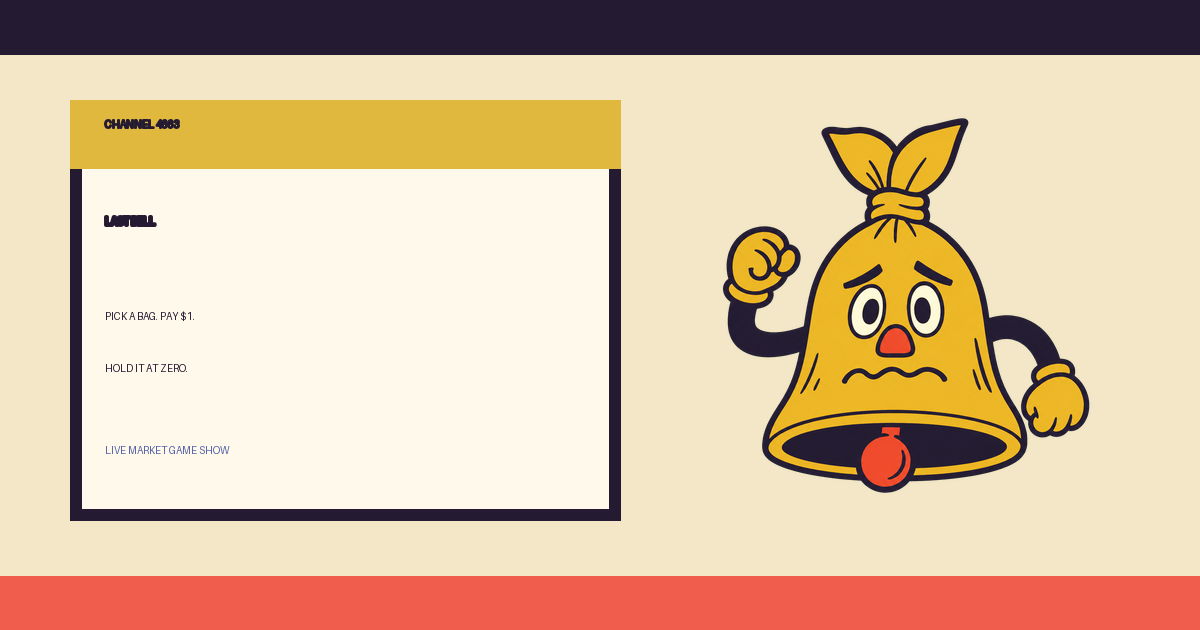
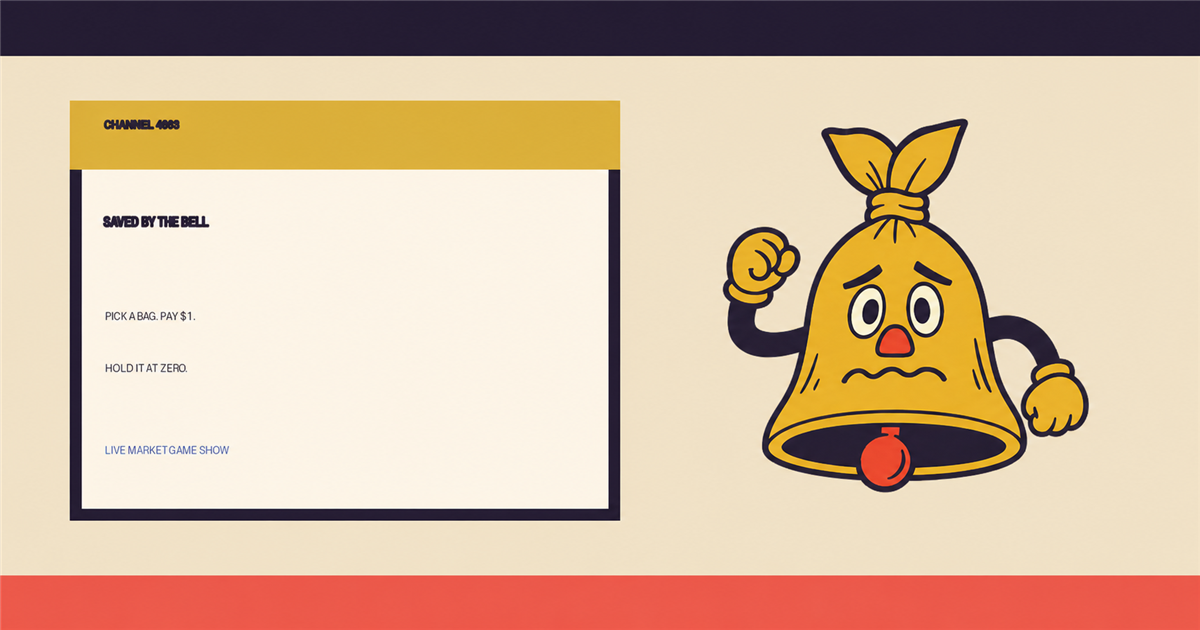
feat(brand): rename product to Saved by the Bell

diff --git a/src/components/station-shell.tsx b/src/components/station-shell.tsx
@@ -11,7 +11,11 @@ export function StationShell({ children }: { children: ReactNode }) {
         Skip to broadcast
       </a>
       <header className="stationHeader">
-        <Link className="stationIdentity" href="/" aria-label="Last Bell home">
+        <Link
+          className="stationIdentity"
+          href="/"
+          aria-label="Saved by the Bell home"
+        >
           <Image
             src="/brand/last-bell-mascot.png"
             alt=""
@@ -21,7 +25,10 @@ export function StationShell({ children }: { children: ReactNode }) {
           />
           <span>
             <small>CHANNEL 4663</small>
-            <strong>LAST BELL</strong>
+            <strong className="stationTitle">
+              <span>SAVED</span>
+              <em>BY THE BELL</em>
+            </strong>
           </span>
         </Link>
         <div className="onAirBug">
@@ -39,7 +46,7 @@ export function StationShell({ children }: { children: ReactNode }) {
       <main id="main-content">{children}</main>
       <footer className="stationFooter">
         <p>
-          Last Bell is experimental software.{" "}
+          Saved by the Bell is experimental software.{" "}
           {mode === "mainnet"
             ? "Stock Token markets are identified onchain."
             : `${mode === "testnet" ? "Testnet" : "Devnet"} tokens have no monetary value. Stock Token references are synthetic unless explicitly marked otherwise.`}

diff --git a/scripts/compile-internal-security-report.ts b/scripts/compile-internal-security-report.ts
@@ -171,7 +171,7 @@ const reportJson = `${JSON.stringify(report, null, 2)}\n`;
 await writeFile(path.join(output, "internal-security-report.json"), reportJson);
 await writeFile(
   path.join(output, "internal-security-report.md"),
-  `# Last Bell v4 Internal Security Review\n\n**${report.label}**\n\n- Source commit: \`${sourceCommit}\`\n- Findings: ${findings.length}\n- Unresolved critical/high: ${unresolved.length}\n- Passed: ${report.passed}\n\n## Residual risks\n\n${report.residualRisks.map((risk) => `- ${risk}`).join("\n")}\n`,
+  `# Saved by the Bell v4 Internal Security Review\n\n**${report.label}**\n\n- Source commit: \`${sourceCommit}\`\n- Findings: ${findings.length}\n- Unresolved critical/high: ${unresolved.length}\n- Passed: ${report.passed}\n\n## Residual risks\n\n${report.residualRisks.map((risk) => `- ${risk}`).join("\n")}\n`,
 );
 process.stdout.write(reportJson);
 if (!report.passed) process.exitCode = 1;

diff --git a/src/app/layout.tsx b/src/app/layout.tsx
@@ -28,15 +28,20 @@ export const metadata: Metadata = {
     process.env.NEXT_PUBLIC_APP_URL || "http://localhost:3000",
   ),
   title: {
-    default: "Last Bell · Channel 4663",
-    template: "%s · Last Bell",
+    default: "Saved by the Bell · Channel 4663",
+    template: "%s · Saved by the Bell",
   },
   description:
     "Pick a bag. Pay $1 to take the bell. Hold it when the clock hits zero to win half the pot.",
-  applicationName: "Last Bell",
-  keywords: ["onchain game", "Robinhood Chain", "Last Bell", "ticker game"],
+  applicationName: "Saved by the Bell",
+  keywords: [
+    "onchain game",
+    "Robinhood Chain",
+    "Saved by the Bell",
+    "ticker game",
+  ],
   openGraph: {
-    title: "Last Bell · Channel 4663",
+    title: "Saved by the Bell · Channel 4663",
     description: "The last caller holding the bell wins the broadcast.",
     type: "website",
   },

diff --git a/src/lib/server/auth.ts b/src/lib/server/auth.ts
@@ -28,7 +28,9 @@ export function requireSameOrigin(request: Request) {
   const origin = request.headers.get("origin");
   const expected = expectedOrigin(request);
   if (origin && origin !== expected) {
-    throw new Error("Request origin does not match this Last Bell station.");
+    throw new Error(
+      "Request origin does not match this Saved by the Bell station.",
+    );
   }
   return expected;
 }
@@ -76,7 +78,7 @@ export async function createSiweChallenge(input: {
   const message = `${domain} wants you to sign in with your Ethereum account:
 ${address}
 
-Tune your wallet to Last Bell. This does not authorize a transaction or token spend.
+Tune your wallet to Saved by the Bell. This does not authorize a transaction or token spend.
 
 URI: ${origin}
 Version: 1

diff --git a/src/app/profile/[identity]/page.tsx b/src/app/profile/[identity]/page.tsx
@@ -14,10 +14,12 @@ export async function generateMetadata({
   const { identity } = await params;
   const profile = await getProfile(identity).catch(() => null);
   return {
-    title: profile ? `${profile.displayName} · Last Bell` : "Caller not found",
+    title: profile
+      ? `${profile.displayName} · Saved by the Bell`
+      : "Caller not found",
     description: profile
-      ? `${profile.stats.calls} calls and ${profile.stats.finalBells} final bells on Last Bell.`
-      : "Last Bell caller profile.",
+      ? `${profile.stats.calls} calls and ${profile.stats.finalBells} final bells on Saved by the Bell.`
+      : "Saved by the Bell caller profile.",
   };
 }
 

diff --git a/src/lib/web3/config.ts b/src/lib/web3/config.ts
@@ -19,7 +19,7 @@ const walletConnectProjectId = publicEnvironment.walletConnectProjectId;
 const connectors = [
   injected({ shimDisconnect: true }),
   metaMask(),
-  coinbaseWallet({ appName: "Last Bell" }),
+  coinbaseWallet({ appName: "Saved by the Bell" }),
   safe(),
 ];
 
@@ -31,7 +31,7 @@ if (walletConnectProjectId) {
       projectId: walletConnectProjectId,
       showQrModal: true,
       metadata: {
-        name: "Last Bell",
+        name: "Saved by the Bell",
         description: "The last caller holding the bell wins the broadcast.",
         url: publicEnvironment.appUrl,
         icons: [new URL("/brand/icon-192.png", publicEnvironment.appUrl).href],

diff --git a/src/app/status/page.tsx b/src/app/status/page.tsx
@@ -417,9 +417,9 @@ export default async function StatusPage() {
         <div>
           <h2>Honest failure behavior</h2>
           <p>
-            If canonical state is delayed or unavailable, Last Bell disables the
-            action and shows Dead Air. A submitted claim is never presented as
-            the holder until it is accepted.
+            If canonical state is delayed or unavailable, Saved by the Bell
+            disables the action and shows Dead Air. A submitted claim is never
+            presented as the holder until it is accepted.
           </p>
         </div>
       </section>

diff --git a/src/app/globals.css b/src/app/globals.css
@@ -165,6 +165,22 @@ p {
   letter-spacing: 0.04em;
 }
 
+.stationTitle {
+  display: flex;
+  align-items: baseline;
+  gap: 0.28em;
+  white-space: nowrap;
+}
+
+.stationTitle em {
+  color: var(--prize-tape);
+  font-family: var(--mono);
+  font-size: 0.42em;
+  font-style: normal;
+  font-weight: 900;
+  letter-spacing: 0.07em;
+}
+
 .onAirBug {
   display: flex;
   align-items: center;
@@ -3350,7 +3366,7 @@ main {
   }
 
   .stationIdentity strong {
-    font-size: 1.55rem;
+    font-size: 1.42rem;
   }
 
   .onAirBug {

diff --git a/src/app/page.tsx b/src/app/page.tsx
@@ -14,8 +14,11 @@ export default async function HomePage({
 
   return (
     <div className="gameHomePage">
-      <section className="homeStudio" aria-label="Current Last Bell game">
-        <h1 className="srOnly">Current Last Bell round</h1>
+      <section
+        className="homeStudio"
+        aria-label="Current Saved by the Bell game"
+      >
+        <h1 className="srOnly">Current Saved by the Bell round</h1>
         <LiveGame initialScenario={scenario.id} />
       </section>
       <HistoricalRuns />

diff --git a/src/app/receipt/[roundId]/[player]/opengraph-image.tsx b/src/app/receipt/[roundId]/[player]/opengraph-image.tsx
@@ -26,7 +26,7 @@ export default async function Image({
     >
       <div style={{ display: "flex", justifyContent: "space-between" }}>
         <b style={{ fontSize: 28 }}>CHANNEL 4663 · RECEIPT</b>
-        <b style={{ fontSize: 28 }}>LAST BELL</b>
+        <b style={{ fontSize: 28 }}>SAVED BY THE BELL</b>
       </div>
       <div style={{ display: "flex", flexDirection: "column" }}>
         <span style={{ fontSize: 118, fontWeight: 900 }}>ROUND {roundId}</span>

diff --git a/src/app/profile/[identity]/opengraph-image.tsx b/src/app/profile/[identity]/opengraph-image.tsx
@@ -28,7 +28,7 @@ export default async function Image({
     >
       <div style={{ display: "flex", justifyContent: "space-between" }}>
         <b style={{ fontSize: 28 }}>CHANNEL 4663 · CALLER TAPE</b>
-        <b style={{ fontSize: 28 }}>LAST BELL</b>
+        <b style={{ fontSize: 28 }}>SAVED BY THE BELL</b>
       </div>
       <div style={{ display: "flex", flexDirection: "column" }}>
         <span style={{ fontSize: 88, fontWeight: 900 }}>

diff --git a/test/e2e/last-bell.spec.ts b/test/e2e/last-bell.spec.ts
@@ -30,6 +30,10 @@ test("the main page opens directly into the game and archive", async ({
   page,
 }) => {
   await page.goto("/");
+  await expect(page).toHaveTitle(/Saved by the Bell/);
+  await expect(
+    page.getByRole("link", { name: "Saved by the Bell home" }),
+  ).toBeVisible();
   await expect(page.getByText(/ANVIL · CHAIN 31337/)).toBeVisible();
   await expect(
     page.getByRole("heading", { name: "Historical runs" }),
